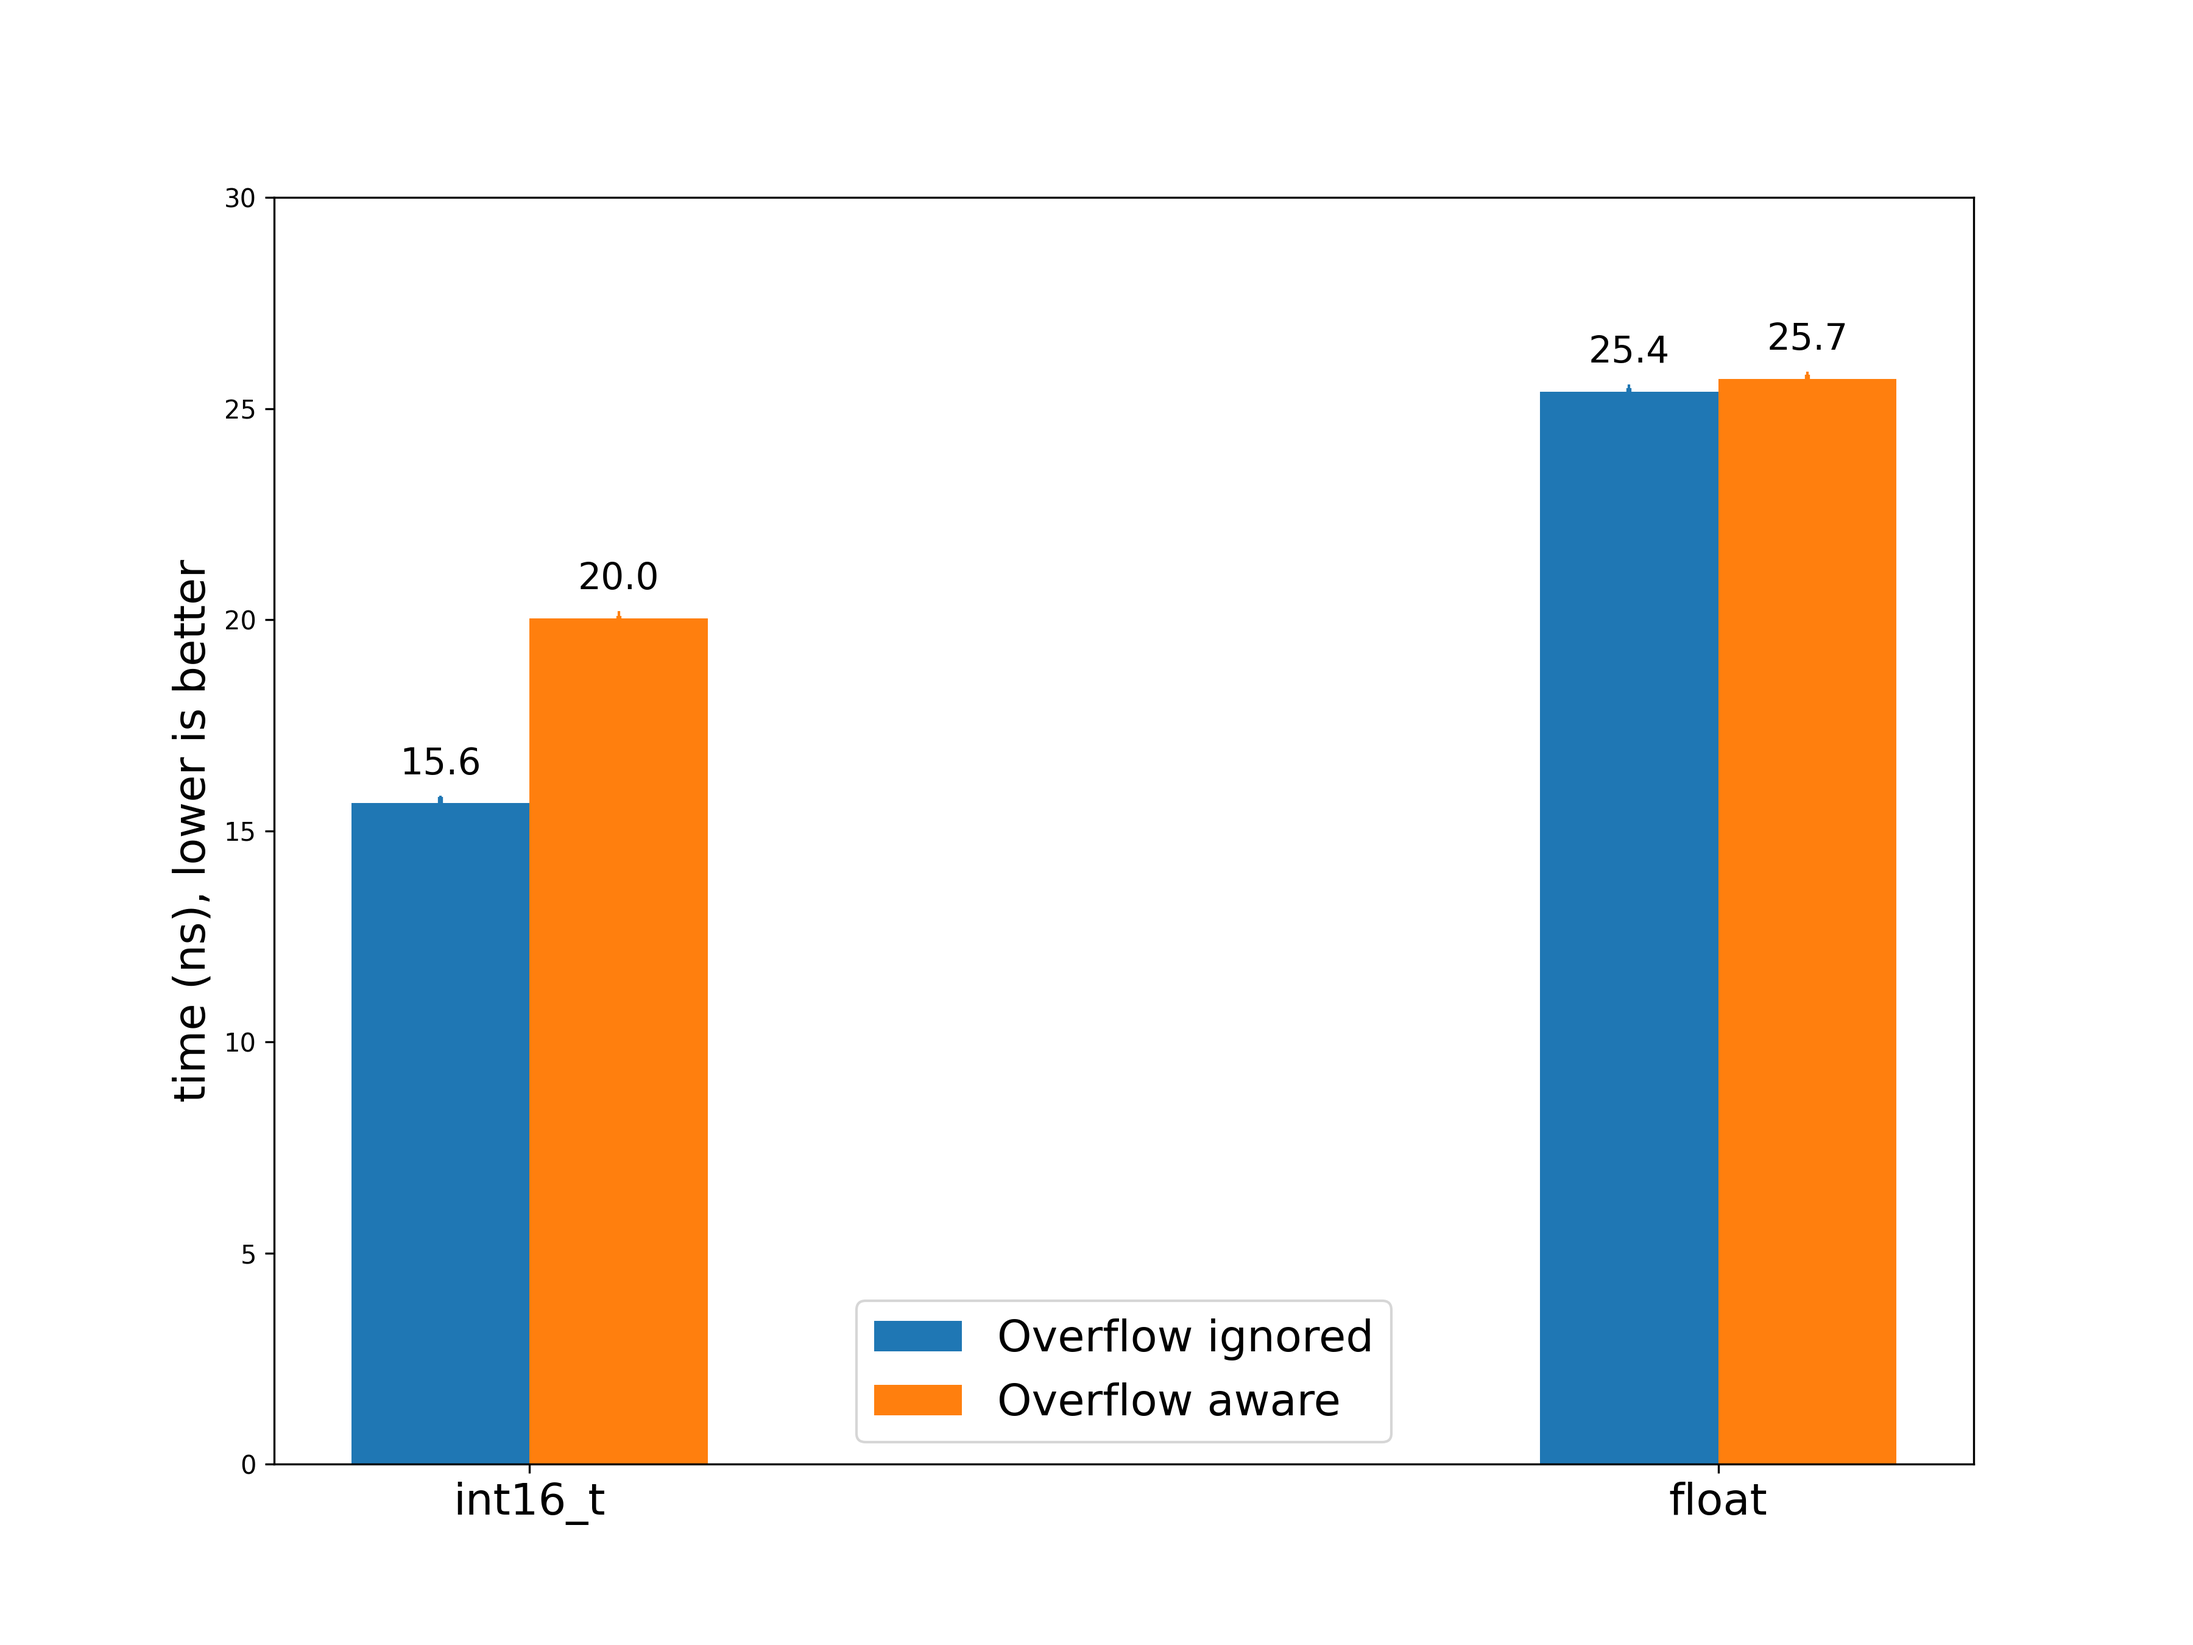
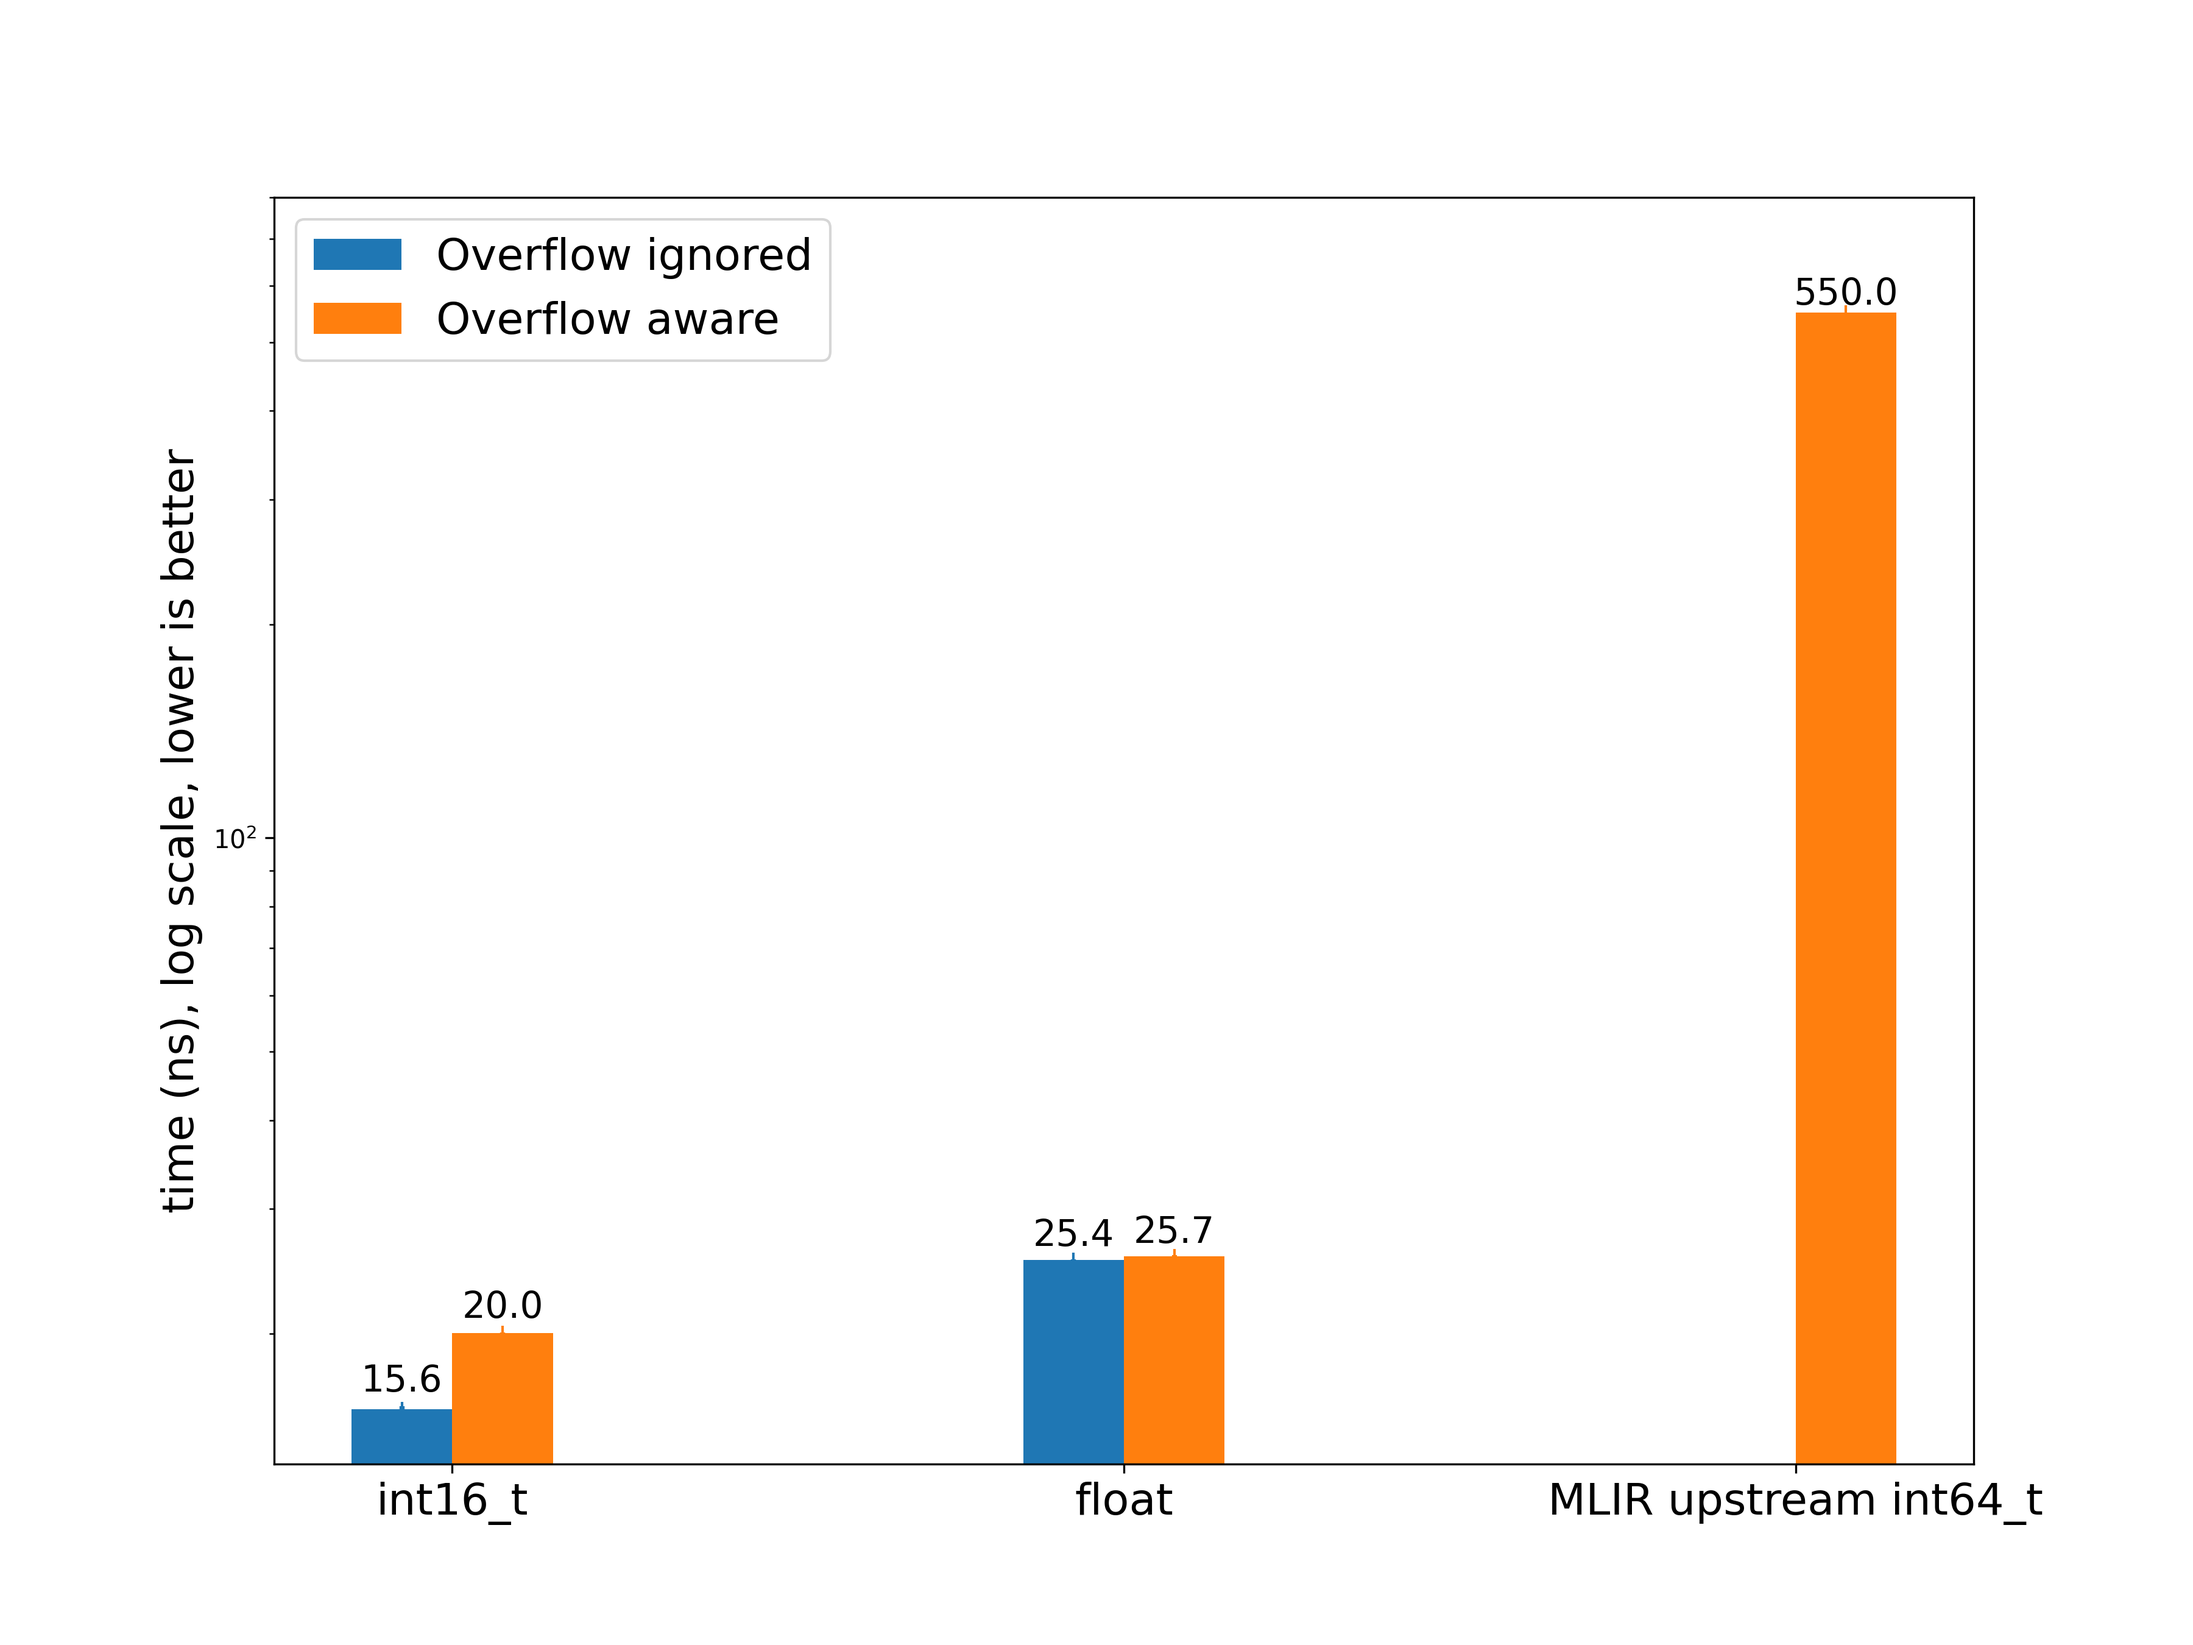
new plots for pivot

diff --git a/scripts/i16-3ymmf32-overflow.py b/scripts/i16-3ymmf32-overflow.py
@@ -18,6 +18,7 @@ size = "xx-large"
 # xlabel = ['int16 (vectorized)', 'float (vectorized)', 'double (vectorized)', 'Upstream Impl (scalcar)']
 xlabel = ['int16_t',
           'float',
+          'MLIR upstream int64_t',
            ]
 
 
@@ -27,7 +28,7 @@ legends = [
              ]
 
 xss = []
-xss.append(np.arange(2))
+xss.append(np.arange(3))
 
 f = open(filename, "r")
 xs = f.readlines()
@@ -63,6 +64,7 @@ print(d)
 
 
 fig, ax = plt.subplots(figsize =(12, 9))
+ax.set_yscale('log')
 
 barWidth = 0.15
 
@@ -101,8 +103,8 @@ for rect, label in zip(rects, labels):
     )
 
 # color_iter = iter(colors)
-ax.legend(labels=legends, fontsize=size, loc="lower center")
-ax.set_ylim(ymin=0,ymax=30)
+ax.legend(labels=legends, fontsize=size, loc="upper left")
+ax.set_ylim(ymin=0,ymax=800)
 for (xs,ys,errs) in zip(xss,yss,errss):
     print('=================')
     print(xs)
@@ -112,6 +114,6 @@ for (xs,ys,errs) in zip(xss,yss,errss):
 
 
 plt.xticks([ x  - 0.5 * barWidth for x in xss[1]], list(xlabel), fontsize='xx-large',)
-ax.set_ylabel("time (ns), lower is better", fontsize=size)
+ax.set_ylabel("time (ns), log scale, lower is better", fontsize=size)
 # ax.set_title(title, fontsize=size)
 plt.savefig( filename +'.png', dpi=300)
